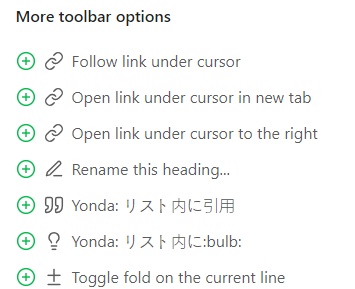
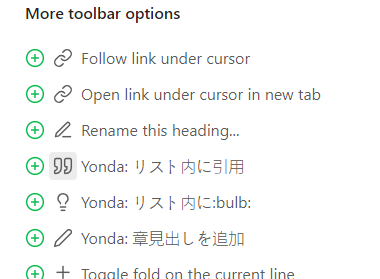
add command

diff --git a/Modals/Chapter.ts b/Modals/Chapter.ts
@@ -1,0 +1,66 @@
+import { App, Modal, Editor, MarkdownView } from "obsidian";
+
+export class ChapterModal extends Modal {
+	private readonly editor: Editor;
+	private readonly view: MarkdownView;
+
+	constructor(app: App, editor: Editor, view: MarkdownView) {
+		super(app);
+		this.editor = editor;
+		this.view = view;
+	}
+
+	onOpen() {
+		if (!this.view || this.view.getMode() == "preview") {
+			this.close();
+			return;
+		}
+
+		const { contentEl } = this;
+		contentEl.id = "chapter-modal";
+		const preview = contentEl.createDiv({ text: "第0章「」" });
+		preview.id = "preview-chapter";
+		const chap = contentEl
+			.createEl("label", { text: "chapter" })
+			.createEl("input", { type: "number" });
+		chap.addClass("chap");
+		const title = contentEl
+			.createEl("label", { text: "title" })
+			.createEl("input", { type: "text" });
+		const button = contentEl.createEl("button", { text: "OK" });
+
+		chap.focus();
+
+		const getTitleLine = (): string => {
+			return `第${chap.value}章「${title.value}」`;
+		};
+
+		const updatePreview = () => {
+			preview.textContent = getTitleLine();
+		};
+
+		chap.oninput = updatePreview;
+		title.oninput = updatePreview;
+
+		const insertTitleLine = () => {
+			if (chap.value.length < 1 || title.value.length < 1) {
+				return;
+			}
+			const tl = getTitleLine();
+			const cursor = this.editor.getCursor();
+			this.editor.replaceRange(tl, this.editor.getCursor());
+			this.editor.setCursor(
+				cursor.line,
+				this.editor.getLine(cursor.line).length
+			);
+			this.close();
+		};
+
+		button.onclick = insertTitleLine;
+	}
+
+	onClose() {
+		const { contentEl } = this;
+		contentEl.empty();
+	}
+}

diff --git a/main.ts b/main.ts
@@ -2,6 +2,7 @@ import { Plugin, Editor, MarkdownView } from "obsidian";
 
 import { RegisterModal } from "Modals/Register";
 import { FrontmatterGeneratorModal } from "Modals/Frontmatter";
+import { ChapterModal } from "Modals/Chapter";
 import { addSymbol } from "helpers/inlist";
 
 const COMMAND_RegisterNote = "ノートを作る／開く";
@@ -60,6 +61,15 @@ export default class Yonda extends Plugin {
 			icon: "lightbulb",
 			editorCallback: (editor: Editor, view: MarkdownView) => {
 				addSymbol(":bulb:", editor, view);
+			},
+		});
+
+		this.addCommand({
+			id: "yonda-add-inline-chapter-title",
+			name: "章見出しを追加",
+			icon: "pen",
+			editorCallback: (editor: Editor, view: MarkdownView) => {
+				new ChapterModal(this.app, editor, view).open();
 			},
 		});
 	}

diff --git a/styles.css b/styles.css
@@ -62,3 +62,22 @@
 	background: var(--metadata-input-background-active);
 	color: var(--metadata-input-text-color);
 }
+
+#chapter-modal label {
+	display: block;
+	margin-top: 0.5em;
+}
+
+#chapter-modal label input {
+	margin: 4px 0;
+	display: block;
+	width: 100%;
+}
+#chapter-modal input.chap {
+	width: 4em;
+}
+
+#chapter-modal button {
+	margin-top: 2em;
+	width: 100%;
+}
